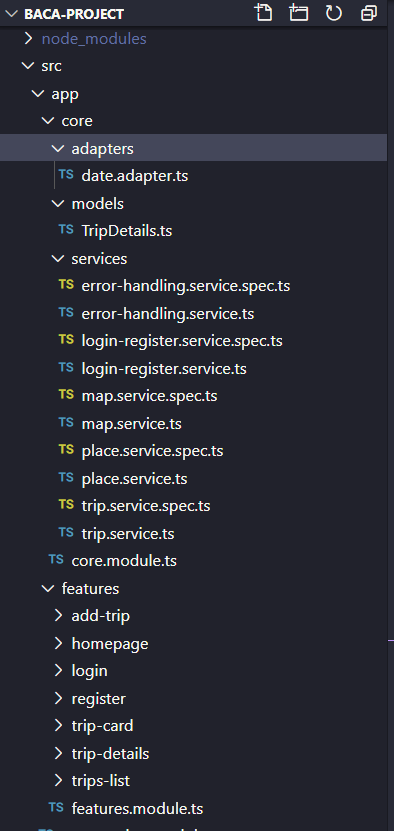
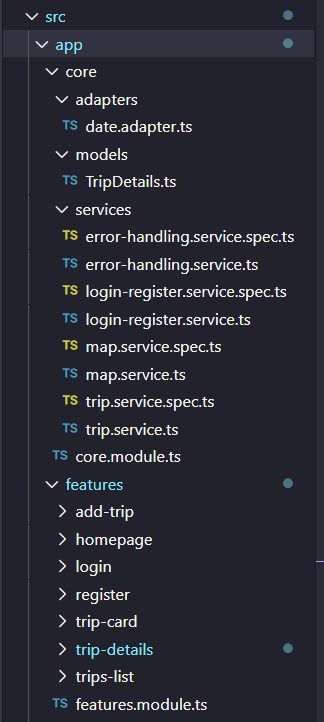
Code cleanup

diff --git a/Frontend/baca-project/src/app/features/trip-details/trip-details.component.ts b/Frontend/baca-project/src/app/features/trip-details/trip-details.component.ts
@@ -1,13 +1,12 @@
-import { PlaceService } from './../../core/services/place.service';
 import { MapService } from './../../core/services/map.service';
 import { environment } from './../../../environments/environment';
 import { TripDetails } from 'src/app/core/models/TripDetails';
 import { TripService } from './../../core/services/trip.service';
-import { Component, OnInit, ɵConsole } from '@angular/core';
+import { Component, OnInit } from '@angular/core';
 import { ActivatedRoute } from '@angular/router';
 import * as mapboxgl from 'mapbox-gl';
 import MapboxGeocoder from '@mapbox/mapbox-gl-geocoder';
-import { log } from 'console';
+
 @Component({
   selector: 'app-trip-details',
   templateUrl: './trip-details.component.html',
@@ -34,8 +33,7 @@ export class TripDetailsComponent implements OnInit {
   constructor(
     private readonly activatedRoute: ActivatedRoute,
     private readonly tripService: TripService,
-    private readonly mapService: MapService,
-    private readonly placeService: PlaceService
+    private readonly mapService: MapService
   ) {}
 
   ngOnInit(): void {
@@ -43,24 +41,6 @@ export class TripDetailsComponent implements OnInit {
       this.tripId = param.tripId;
     });
     this.getTripDetails();
-  }
-
-  getCityDetails(): void {
-    this.placeService
-      .getCityDetails(this.tripDetails?.destination)
-      .subscribe((list) => {
-        let cityCode = list.locationSearchResult['0'].cityCode;
-
-        // this.placeService.getHotels({
-        //   cityCode: cityCode,
-        //   rooms: [{ADT: 1}],
-        //   arrivalDate: this.tripDetails.startDate,
-        //   leaveDate: this.tripDetails.endDate,
-        //   nationality: 'HU'
-        // }).subscribe(res => {
-        //   console.log(res);
-        // })
-      });
   }
 
   getTripDetails(): void {
@@ -79,12 +59,10 @@ export class TripDetailsComponent implements OnInit {
         .subscribe((placesList) => {
           this.getDestinationLocation(placesList['features'][0]);
         });
-
-      this.getCityDetails();
     });
 
     this.emergencyNumber = '000';
-    this.currentCountry = "US";
+    this.currentCountry = 'US';
 
     this.getCurrentLocationEmergencyNumber();
   }
@@ -192,9 +170,7 @@ export class TripDetailsComponent implements OnInit {
     }
   }
 
-  //**EMERGENCY NUMBER EXTRACTION FROM EMERGENCY API BETA - BEGINNING*/
-
-  getCurrentLocationEmergencyNumber(): void{
+  getCurrentLocationEmergencyNumber(): void {
     this.getCurrentLocation();
     this.tripService.getTripDetails(Number(this.tripId)).subscribe((resp) => {
       this.tripDetails = resp.response;
@@ -202,54 +178,49 @@ export class TripDetailsComponent implements OnInit {
       this.mapService
         .getPlacesForName(this.tripDetails?.destination)
         .subscribe((placesList) => {
-            let code = this.getCountryCodeFromJSON(placesList['features'][0]);
-            this.currentCountry = code;
-      console.log("This is the corrent contry code :"+ this.currentCountry)
-      this.tripService.getTripLocationEmergencyData(this.currentCountry).subscribe((resp)=>{
-      this.emergencyNumber = this.getEmergencyNumberFromData(resp);
-          });
+          let code = this.getCountryCodeFromJSON(placesList['features'][0]);
+          this.currentCountry = code;
+          this.tripService
+            .getTripLocationEmergencyData(this.currentCountry)
+            .subscribe((resp) => {
+              this.emergencyNumber = this.getEmergencyNumberFromData(resp);
+            });
         });
-    });   
+    });
   }
 
-  getCountryCodeFromJSON(locationName): string{
+  getCountryCodeFromJSON(locationName): string {
     let destinationCode;
     let short_name = null;
-    let i=0;
+    let i = 0;
     let tempShortNameFromProperties = locationName.properties;
-    console.log("Prop location name"+JSON.stringify(tempShortNameFromProperties));
-    console.log("destination test : "+tempShortNameFromProperties.short_code);
     let countryShortCode = tempShortNameFromProperties.short_code;
-    if(countryShortCode !== 'undefined')
-        short_name = tempShortNameFromProperties.short_code;
-    while(short_name == null){
-        destinationCode = locationName.context[i];
-        if(destinationCode.short_code !== 'undefined')
-          short_name = destinationCode.short_code;
-        i++;
-      }
+    if (countryShortCode !== 'undefined')
+      short_name = tempShortNameFromProperties.short_code;
+    while (short_name == null) {
+      destinationCode = locationName.context[i];
+      if (destinationCode.short_code !== 'undefined')
+        short_name = destinationCode.short_code;
+      i++;
+    }
     return short_name.trim().substring(0, 2);
   }
-  getCurrentLocationCountryCode() : void{
+  getCurrentLocationCountryCode(): void {
     this.mapService
-        .getPlacesForName(this.tripDetails?.destination.toString())
-        .subscribe((placesList) => {
-            console.log(placesList['features'][0]);
-            var code = this.getCountryCodeFromJSON(placesList['features'][0]);
-            console.log("Code :" + code);
-            this.currentCountry = code;
-        });
+      .getPlacesForName(this.tripDetails?.destination.toString())
+      .subscribe((placesList) => {
+        var code = this.getCountryCodeFromJSON(placesList['features'][0]);
+        this.currentCountry = code;
+      });
   }
-  getEmergencyNumberFromData(emergencyData): string{
+  getEmergencyNumberFromData(emergencyData): string {
     let datanumber = emergencyData['data'];
     let isMember112 = datanumber['member_112'];
-    if(isMember112 == true)
-      return '112';
-    else{
+    if (isMember112 == true) return '112';
+    else {
       let emergencyDispatchNumber = datanumber['dispatch']['all'];
-        return emergencyDispatchNumber;
+      return emergencyDispatchNumber;
     }
     return '000';
   }
-  //**EMERGENCY NUMBER EXTRACTION FROM EMERGENCY API BETA - END*/
 }

diff --git a/TechnicalReport/baca-documentation.html b/TechnicalReport/baca-documentation.html
@@ -208,8 +208,8 @@
                    In the <strong>core</strong> module we have a folder dor the servicies used by our applications' components, a folder for the models and
                    an adapter for the dates. The servicies will be used to communicate with the backend by calling the REST APIs or public APIs using HttpClient. 
                    In the <strong>features</strong> module we can find all the components created for the BacA applicaton, components like login, register, trips-list, trip-details.
-                   <img src="General architecture/Frontend-app-structure.PNG" alt="Frontend structure" class="img-fluid mt-4 mb-4">
                 </p>
+                <img src="General architecture/Frontend-app-structure.PNG" alt="Frontend structure" class="img-fluid mt-4 mb-4">
             </section>
             <section id="API">
                 <h5>API</h5>

diff --git a/Frontend/baca-project/src/app/app.component.ts b/Frontend/baca-project/src/app/app.component.ts
@@ -1,7 +1,6 @@
 import { LoginRegisterService } from './core/services/login-register.service';
 import { Component, OnInit } from '@angular/core';
 import { Router } from '@angular/router';
-import { Observable } from 'rxjs';
 
 @Component({
   selector: 'app-root',
@@ -19,9 +18,9 @@ export class AppComponent implements OnInit {
 
   ngOnInit() {
     setTimeout(() => {
-      this.loginService.getIsLoggedIn().subscribe(value => {
+      this.loginService.getIsLoggedIn().subscribe((value) => {
         this.isLoggedIn = value;
-      })
+      });
     }, 500);
   }
 
@@ -34,7 +33,7 @@ export class AppComponent implements OnInit {
   }
 
   navigateToTripList(): void {
-    this.router.navigate(['tripsList'])
+    this.router.navigate(['tripsList']);
   }
 
   navigateToAddForm(): void {

diff --git a/Frontend/baca-project/src/environments/environment.ts b/Frontend/baca-project/src/environments/environment.ts
@@ -5,10 +5,7 @@
 export const environment = {
   production: false,
   url: 'http://localhost:8080',
-  mapAccessToken: 'pk.eyJ1IjoiaXJpbmExMyIsImEiOiJja2pvYXZkZjgydjVvMnlsb3p6aGNuNmRmIn0.jC6Xej6u1QeZ27lFPgT6nw',
-  airlabsAPIkey: '95650ce8-639d-4ff8-b6cc-2fc6db7154df',
-  allmylesAPIkey: '6f265b0b-3dac',
-  amadeusAPIkey: 'G7AR7c3NE5eAhNikm8XXsWLleydSjUPq'
+  mapAccessToken: 'pk.eyJ1IjoiaXJpbmExMyIsImEiOiJja2pvYXZkZjgydjVvMnlsb3p6aGNuNmRmIn0.jC6Xej6u1QeZ27lFPgT6nw'
 };
 
 /*

diff --git a/Frontend/baca-project/src/app/features/homepage/homepage.component.ts b/Frontend/baca-project/src/app/features/homepage/homepage.component.ts
@@ -3,13 +3,10 @@ import { Component, OnInit } from '@angular/core';
 @Component({
   selector: 'app-homepage',
   templateUrl: './homepage.component.html',
-  styleUrls: ['./homepage.component.scss']
+  styleUrls: ['./homepage.component.scss'],
 })
 export class HomepageComponent implements OnInit {
+  constructor() {}
 
-  constructor() { }
-
-  ngOnInit(): void {
-  }
-
+  ngOnInit(): void {}
 }

diff --git a/Frontend/baca-project/src/app/features/login/login.component.ts b/Frontend/baca-project/src/app/features/login/login.component.ts
@@ -1,5 +1,4 @@
 import { ErrorHandlingService } from './../../core/services/error-handling.service';
-import { ToastrService } from 'ngx-toastr';
 import { LoginRegisterService } from './../../core/services/login-register.service';
 import { Component, OnInit } from '@angular/core';
 import { FormBuilder, FormGroup, Validators } from '@angular/forms';

diff --git a/Frontend/baca-project/src/app/features/trips-list/trips-list.component.ts b/Frontend/baca-project/src/app/features/trips-list/trips-list.component.ts
@@ -29,6 +29,6 @@ export class TripsListComponent implements OnInit {
   }
 
   updateTripList(event) {
-    this.trips = this.trips.filter(item => item.idtrip != event);
+    this.trips = this.trips.filter((item) => item.idtrip != event);
   }
 }

diff --git a/Frontend/baca-project/src/app/features/register/register.component.ts b/Frontend/baca-project/src/app/features/register/register.component.ts
@@ -42,7 +42,7 @@ export class RegisterComponent implements OnInit {
           this.errorService.displayErrorToast(err.error.message, '');
         }
       }
-    )
+    );
   }
 
   onReset(): void {
